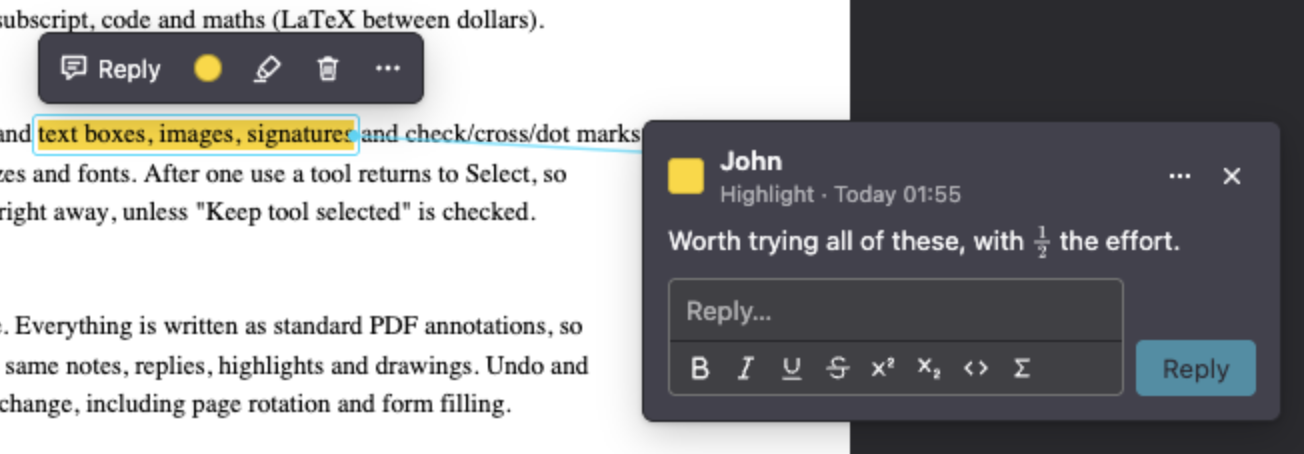
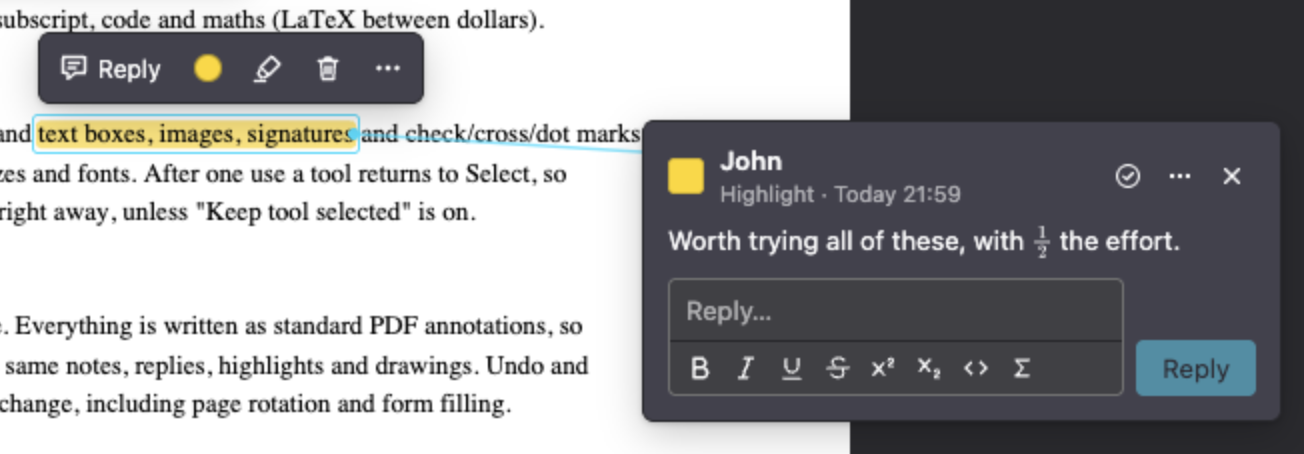
feat: documentation

diff --git a/README.md b/README.md
@@ -1,95 +1,125 @@
-# PDF Viewer & Editor
+<h1 align="center"><img src="https://raw.githubusercontent.com/mantasu/pdf/main/resources/media/icon.png" width=24px height=24px> PDF Viewer & Editor</h1>
 
-Read, annotate, fill and sign PDFs (research papers especially) without leaving VS Code. Everything is saved as standard PDF annotations, so the same file opens in Acrobat, Preview and browsers.
+<div align="center">
 
-![Highlighting with a maths comment, asking Copilot, drawing, filling a form and signing, then the saved file in Preview](resources/media/banner.gif)
+![Highlighting with a maths comment, asking Copilot, drawing, filling a form and signing, then the saved file in Preview](https://raw.githubusercontent.com/mantasu/pdf/main/resources/media/banner.gif)
+
[1 lines of base64/hex data omitted]
+[![release](https://img.shields.io/github/v/release/mantasu/pdf?label=🏷%20release)](https://github.com/mantasu/pdf/releases/latest)
+[![test](https://github.com/mantasu/pdf/actions/workflows/test.yaml/badge.svg)](https://github.com/mantasu/pdf/actions/workflows/test.yaml)
+[![codecov](https://codecov.io/github/mantasu/pdf/graph/badge.svg?token=I0D2Y2DUVC)](https://codecov.io/github/mantasu/pdf)
[1 lines of base64/hex data omitted]
+
+</div>
+
+## About
+
+View and edit PDFs like in [Acrobat](https://www.adobe.com/uk/acrobat.html) or [Preview](https://support.apple.com/en-gb/guide/preview/welcome/mac). This extension also allows annotating in [LaTeX](https://www.latex-project.org/) maths and supports [Copilot](https://github.com/copilot) integration for explanations/summaries. Super useful for analyzing research papers or working with documents in general.
 
 > [!TIP]
-> Open [`resources/media/example.pdf`](resources/media/example.pdf) for a guided tour.
+> See [`example.pdf`](resources/media/example.pdf) for a guided tour. Any saved edits open in Acrobat, Preview and browsers
 
 ## Features
 
-| | |
-| --- | --- |
-| 🖍 **Annotate** | Highlight, underline, comment, reply and resolve, as in Acrobat |
-| ✍ **Rich text** | Bold, italic, `code` and `$\LaTeX$` in comments and text boxes |
-| 🎨 **Draw** | Pen, shapes, arrows, images, and text boxes in six fonts |
-| 🖊 **Fill & sign** | Forms, signatures and ✓ ✗ marks |
-| ✨ **Copilot** | Explain or summarize a passage with any Copilot model (Claude, GPT, …); `@pdf` in Copilot Chat |
-| 📄 **Pages** | Rotate, reorder, insert, print; undo everything |
+<div align="center">
 
-| | |
-| --- | --- |
-| <img src="resources/media/screenshot-comment.png" alt="A comment card beside the page" width="520"> | <img src="resources/media/screenshot-tools.png" alt="The drawing tools' options" width="240"> |
-| Comments open beside the page, joined to their mark. | Each tool's dropdown holds its colours, sizes and fonts. |
+|                    |                                                                       |
+| ------------------ | --------------------------------------------------------------------- |
+| 🖍 **Annotate**    | Highlight, underline, comment, reply and resolve                      |
+| ✍ **Rich text**   | **Bold**, _italic_, `code` and `$\LaTeX$` in comments and text boxes  |
+| 🎨 **Draw**        | Pen, shapes, arrows, images, and text boxes in six fonts              |
+| 🖊 **Fill & sign** | Forms, signatures and ✓ ✗ marks                                      |
+| ✨ **Copilot**     | Explain or summarize a passage with Copilot; `@pdf` in Copilot Chat   |
+| 📄 **Pages**       | Rotate, reorder, insert, print; undo everything                       |
+
+</div>
 
 > [!NOTE]
-> The PDF's own text and images cannot be edited: in Acrobat that is the paid "Edit PDF", and PDF pages cannot be reflowed.
+> The PDF's own text and images cannot be edited
 
-## Keys
 
-| Key | Action |
-| --- | --- |
-| `Ctrl/Cmd+S` · `Ctrl/Cmd+P` | Save · print |
-| `Ctrl/Cmd+Z` · `Ctrl/Cmd+Shift+Z` | Undo · redo (in a text field: the typing) |
-| `Delete` · `Escape` | Delete the selection · close, cancel or deselect |
-| `S` · `H` | Select · Hand (pan) |
-| `Ctrl/Cmd+B` · `I` · `U` | Bold · italic · underline while writing |
-| `Ctrl/Cmd+Enter` | Post a comment or reply |
+## Examples
+
+<div align="center">
+
+| Comments beside the page                                                                             | Tool customization dropdown                                                                   |
+| ---------------------------------------------------------------------------------------------------- | --------------------------------------------------------------------------------------------- |
+| <img src="https://raw.githubusercontent.com/mantasu/pdf/main/resources/media/screenshot-comment.png" alt="A comment card beside the page" width="520">  | <img src="https://raw.githubusercontent.com/mantasu/pdf/main/resources/media/screenshot-tools.png" alt="The drawing tools' options" width="240"> |
+
+</div>
+
+## Shortcuts
+
+| Key                               | Action                                                |
+| --------------------------------- | ----------------------------------------------------- |
+| `Ctrl/Cmd+S` · `Ctrl/Cmd+P`       | Save · print                                          |
+| `Ctrl/Cmd+Z` · `Ctrl/Cmd+Shift+Z` | Undo · redo (in a text field: the typing)             |
+| `Del` · `Esc`                     | Delete the selection · close, cancel or deselect      |
+| `S` · `H`                         | Select · Hand (pan)                                   |
+| `Ctrl/Cmd+B` · `I` · `U`          | **Bold** · _italic_ · <u>underline</u> while writing  |
+| `Ctrl/Cmd+Enter`                  | Post a comment or reply                               |
 
 ## Settings
 
-| Setting | Default | Description |
-| --- | --- | --- |
-| `pdf.authorName` | OS user name | Author of new annotations |
-| `pdf.presetColors` | 5 colours | `Name=#RRGGBB` presets shared by every tool |
-| `pdf.defaultZoomValue` | `auto` | Zoom when opening a PDF |
-| `pdf.sidebarViewOnLoad` | `0` | Side panel when opening a PDF |
-| `pdf.printCommand` | default PDF app | Command that prints the file path given to it, e.g. `lpr` |
-| `pdf.copilot.model` | a Copilot model | Model for Ask Copilot, as picked with **PDF: Choose Copilot Model…** |
+| Setting                 | Default         | Description                                                               |
+| ----------------------- | --------------- | ------------------------------------------------------------------------- |
+| `pdf.authorName`        | OS user name    | Author of new comments and annotations                                    |
+| `pdf.presetColors`      | 5 colors        | `Name=#RRGGBB` presets shared by every tool                               |
+| `pdf.defaultZoomValue`  | `auto`          | Zoom when opening a PDF                                                   |
+| `pdf.sidebarViewOnLoad` | `0`             | Side panel when opening a PDF                                             |
+| `pdf.printCommand`      | default PDF app | Command that prints the file path given to it, e.g. `lpr`                 |
+| `pdf.copilot.model`     | a Copilot model | Model for _Ask Copilot_, as picked with **PDF: Choose Copilot Model...**  |
 
-> [!IMPORTANT]
-> Ask Copilot and `@pdf` use VS Code's language models: GitHub Copilot's (Claude, GPT, Gemini, …) or one added with your own API key, never a key of ours; VS Code asks once. Ask Copilot sends the passage and its page to the model chosen with **PDF: Choose Copilot Model…**; `@pdf` sends the document's text, your selection and the comments to the model picked in the chat.
+> [!TIP]
+> Ask Copilot and `@pdf` call VS Code's language models - GitHub Copilot's (Claude, GPT, Gemini, etc)
 
-## Development
+## Development Notes
 
-```sh
-make setup    # Node.js and dependencies; downloads the newest pdf.js (verified) and the text-box fonts
-make test     # unit tests, 100% coverage
-make e2e      # the real webview in Chrome, and in VS Code when installed
-make example  # regenerate resources/media/example.pdf
-make media    # re-record banner.gif and the screenshots in VS Code
+Install the latest version of [Node.js LTS](https://nodejs.org) and the dependent packages (note all packages install locally into `node_modules/` so no virtual environment is needed):
+
+```bash
+make setup
 ```
 
-Press `F5` to try the extension. `npm install` keeps `resources/pdf.js` on the newest pdf.js release (a packaged build ships whichever one was there) and puts the text-box fonts in `resources/fonts`.
+> **Windows:** install Node.js LTS from [nodejs.org](https://nodejs.org) manually, then use `make install` (requires [Git Bash](https://gitforwindows.org) or [WSL](https://learn.microsoft.com/en-us/windows/wsl/install)).
+
+
+```bash
+npm run test                          # run tests + generate coverage report
+npm run package                       # compile → out/ and build .vsix (what gets published)
+npx semantic-release --dry-run        # preview next release version and notes
+```
+
+> [!TIP]
+> You can run `make clean` to clean up compiled/generated files.
+
+Open `extension.ts` and press **F5** (`fn + F5` if on Mac) to launch _VS Code Extension Development Window_ with the extension loaded.
 
 <details>
-<summary>How it works</summary>
+<summary>How it works?</summary>
 
-| Concern | Owner |
-| --- | --- |
+| Concern                                               | Owner                                                                                    |
+| ----------------------------------------------------- | ---------------------------------------------------------------------------------------- |
 | Pages, text selection, links, forms, find, thumbnails | [pdf.js](https://mozilla.github.io/pdf.js/), the unmodified release (`resources/pdf.js`) |
-| Reading and writing annotations | the extension host, with [pdf-lib](https://github.com/Hopding/pdf-lib) (`src/pdf/`) |
-| Drawing and editing annotations | the viewer layer (`resources/viewer/`) |
-| Undo/redo, dirty state, save, hot exit | VS Code's custom-editor edit stack (`src/editor/`) |
-| Ask Copilot, `@pdf` | VS Code's Language Model and Chat APIs (`src/copilot/`) |
+| Reading and writing annotations                       | the extension host, with [pdf-lib](https://github.com/Hopding/pdf-lib) (`src/pdf/`)      |
+| Drawing and editing annotations                       | the viewer layer (`resources/viewer/`)                                                   |
+| Undo/redo, dirty state, save, hot exit                | VS Code's custom-editor edit stack (`src/editor/`)                                       |
+| Ask Copilot, `@pdf`                                   | VS Code's Language Model and Chat APIs (`src/copilot/`)                                  |
 
-The host reads the annotations it manages into a JSON model and gives pdf.js a copy of the file without them, so nothing is drawn twice. One codec per kind (`src/pdf/kinds.ts`) reads its fields and writes its keys and appearance stream, so every reader shows the same thing. Annotations it does not manage are left to pdf.js and only get their comment edited. Saving merges the model back: untouched annotations stay byte-identical, deleted ones go with their replies.
+The host reads the annotations it manages into a JSON model and gives pdf.js the file without them, so nothing is drawn twice; one codec per kind (`src/pdf/kinds.ts`) writes standard PDF keys and appearance streams, so every reader shows the same thing. Saving merges the model back and leaves untouched annotations byte-identical. All saved types are standard PDF annotations, from Highlight to FreeText (maths drawn as vector outlines) to image Stamps.
 
-Saved annotation types are all standard: Highlight, Underline, StrikeOut and Squiggly with QuadPoints; Text notes with Popups and `/IRT` replies; review states (Resolved is Acrobat's Completed); FreeText with `/DA`, `/DS` and `/RC` (maths drawn as vector outlines, fonts beyond Helvetica, Times and Courier embedded as subsets); Ink; Square; Circle; Line; image Stamps.
-
-```
-src/          extension.ts, protocol.ts (host <-> viewer messages)
-  editor/     custom editor: provider, document, webview session, HTML, printing
-  pdf/        model, per-kind codecs, reader, writer, rich text, maths, images, pages
-  copilot/    prompts, Language Model API, @pdf chat participant
-resources/viewer/   the webview: main.mjs (entry), one module per part of the UI, viewer.css
-scripts/      pdf.js and font downloads (pdfjs.mjs), example.pdf, README media
-test/         unit tests and end-to-end suites (e2e/)
+```bash
+src/              # extension host: commands, host <-> viewer messages
+  editor/         # custom editor, save, undo
+  pdf/            # annotation codecs, read, write
+  copilot/        # @pdf chat participant
+resources/viewer/ # the webview UI
+scripts/          # downloads, example.pdf, media
+test/             # unit and e2e tests
 ```
 
 </details>
 
 ## License
 
-MIT. pdf.js (Apache-2.0) and MathJax (Apache-2.0) are bundled unmodified, as are the Roboto, Lora and Comic Neue fonts (SIL Open Font License; each license is in `resources/fonts`).
+This extension is under [MIT](https://opensource.org/license/mit) license. Note that [pdf.js](https://mozilla.github.io/pdf.js/) ([Apache-2.0](https://www.apache.org/licenses/LICENSE-2.0)) and [MathJax](https://www.mathjax.org/) ([Apache-2.0](https://www.apache.org/licenses/LICENSE-2.0)) are bundled unmodified, as are the [Roboto](https://fonts.google.com/specimen/Roboto), [Lora](https://fonts.google.com/specimen/Lora) and [Comic Neue](https://fonts.google.com/specimen/Comic+Neue) fonts ([SIL Open Font License](https://openfontlicense.org/); each license is in `resources/fonts`).
